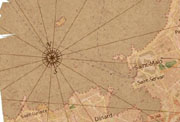
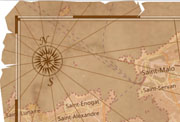
[UPD] New pirate map

diff --git a/examples/map.pirate.html b/examples/map.pirate.html
@@ -10,7 +10,7 @@
 	<title>OL3-ext: Pirates</title>
 	<meta http-equiv="Content-Type" content="text/html; charset=utf-8" />
 
-	<meta name="description" content="ol.control.PirateMap adds an old map effect on a canvas renderer with a parchment texture and compass." />
+	<meta name="description" content="Add an old map effect on a canvas renderer with a parchment texture and compass." />
 	<meta name="keywords" content="ol3, control, canvas, pirate, compass, effect" />
 
 	<link rel="stylesheet" href="style.css" />
@@ -22,9 +22,19 @@
     <link rel="stylesheet" href="http://openlayers.org/en/master/css/ol.css" />
 	<script type="text/javascript" src="http://openlayers.org/en/master/build/ol.js"></script>
 	
-	<!-- -->
-	<link rel="stylesheet" href="../control/piratecontrol.css" />
-	<script type="text/javascript" src="../control/piratecontrol.js"></script>
+	<!-- Compass -->
+	<script type="text/javascript" src="../control/compasscontrol.js"></script>
+	<!-- Filters -->
+	<script type="text/javascript" src="../filter/filter.js"></script>
+	<!-- Texture -->
+	<script type="text/javascript" src="../filter/texturefilter.js"></script>
+	<!-- Colors -->
+	<script type="text/javascript" src="../filter/colorizefilter.js"></script>
+	<!-- Clip -->
+	<script type="text/javascript" src="../filter/clipfilter.js"></script>
+	<!-- Graticule -->
+	<script type="text/javascript" src="../control/graticulecontrol.js"></script>
+
 
 	<style>
 		#map
@@ -41,12 +51,32 @@
 			top:6em;
 			right:1em;
 			margin:0;
-			max-width:15%;
-			min-width:200px;
+			width:200px;
+			z-index:10;
 		}
 		.options input[type="number"]
 		{	width: 5em;
 		}
+
+		.ol-compassctrl 
+		{	top: 50%;
+			left: 5%;
+			width: 100px;
+			height: 100px;
+			-webkit-transform: translate(0,-50%);
+			transform: translate(0,-50%);
+		}
+		.ol-compassctrl.right
+		{	top: auto;
+			left: auto;
+			bottom: 5%;
+			right: 5%;
+			width: 150px;
+			height: 150px;
+			-webkit-transform: none;
+			transform: none;
+		}
+
 	</style>
 
 </head>
@@ -61,13 +91,16 @@
 	<div id="map" ></div>
 
 	<div class="options">
-		The <i>ol.control.PirateMap</i> adds an old map effect on a canvas renderer.
-		It colors the map, adds a parchment texture and compass onto the map.
+		This example show how to combine a <a href="map.filter.colorize.html">color filter</a>, 
+		with a <a href="map.filter.texture.html">parchment texture filter</a>,
+		a <a href="map.control.compass.html">compass control</a>
+		and a <a href="map.control.graticule.html">graticule control</a>
+		to create an old map effect. 
 		<h2>Options</h2>
 		<ul>
 			<li>
 				Hue:
-				<select onchange="ctrl.hue= this.value; map.renderSync()">
+				<select onchange="color.setColor(this.value);">
 					<option value="#963">default</option>
 					<option value="#369">blue</option>
 					<option value="#936">red</option>
@@ -76,18 +109,28 @@
 			</li>
 			<li>
 				Saturation:
-				<input type="number" value="0.6" onchange="ctrl.saturation= Number(this.value); map.renderSync()" max="1" min="0" step="0.1" />
+				<input id="sat" type="number" value="0.6" onchange="color.setValue(this.value)" max="1" min="0" step="0.1" />
 			</li>
 			<li>
 				Opacity:
-				<input type="number" value="0.7" onchange="ctrl.opacity= Number(this.value); map.renderSync()" max="1" min="0" step="0.1" />
+				<input id="opacity" type="number" value="0.7" onchange="tex.setFilter({opacity:Number(this.value)})" max="1" min="0" step="0.1" />
+			</li>
+			<li>
+				<input id="rot" type="checkbox" onchange="tex.set('rotateWithView',$(this).prop('checked'));" /><label for="rot"> rotateWithView</label>
+				<small><i>May cause animation lags on mobile or slow devices</i></small>
 			</li>
 		</ul>
 	</div>
 
 
 	<script type="text/javascript">
+		if (/MSIE|Trident/.test(navigator.userAgent))
+		{	alert ("Oops, it seems you use IE!\nsome feature may not work correctly, try to use another navigator!")
+			$('#sat').val(0.2);
+			$('#opacity').val(0.3);
+		}
 
+		var osm = new ol.layer.Tile({ source: new ol.source.OSM()});
 		// The map
 		var map = new ol.Map
 			({	target: 'map',
@@ -95,16 +138,82 @@
 				({	zoom: 14,
 					center: [-302537, 6001071]
 				}),
-				layers: [new ol.layer.Tile(
-					{	name: "OSM",
-						source: new ol.source.OSM(),
-						visible: true
-					})]
+				layers: [osm]
 			});
 		map.getView().fit ([-375917, 5976764, -229158, 6025378], map.getSize());
 
-		var ctrl = new ol.control.PirateMap();
-		map.addControl(ctrl);
+		// Color filter
+		var color = new ol.filter.Colorize(
+			{	operation: 'color',
+				color: "rgba(153,102,51,"+$("#sat").val()+")",
+					/*
+				red: 153,
+				green: 102,
+				blue: 51,
+				*/
+				value: Number($("#sat").val())
+			});
+		map.addFilter(color); 
+
+		// Texture filter
+		var tex = new ol.filter.Texture(
+			{	src: "data/piratecontrol.jpg", 
+				opacity: Number($("#opacity").val()),
+				rotateWithView: $("#rot").prop('checked'),
+				scale: 3
+			});
+		map.addFilter(tex); 
+
+		// Compass
+		map.addControl(new ol.control.Compass(
+			{	src: "../control/piratecontrol.png",
+				style: new ol.style.Stroke ({ color: "#963", width: 1 }) 
+			}));
+		map.addControl(new ol.control.Compass(
+			{	className: 'right',
+				src: "../control/piratecontrol.png",
+				style: new ol.style.Stroke ({ color: "#963", width: 1 })
+			}));
+		
+		// Graticule
+		map.addControl(new ol.control.Graticule(
+			{	step: 0.2, 
+				stepCoord: 2, 
+				projection: 'EPSG:4326', 
+				//step: 1000, stepCoord: 5, projection: 'EPSG:2154',
+				margin:35, 
+				stroke: true,
+				style:	new ol.style.Style(
+					{	stroke: new ol.style.Stroke({ color:"rgba(102, 51, 0, 0.8)", width:1 }),
+						fill: new ol.style.Fill({ color: "rgba(255,255,255,0.3)" }),
+						text: new ol.style.Text(
+						{	stroke: new ol.style.Stroke({ color: "rgba(255,255,255,0.5)", width: 2 }),
+							fill: new ol.style.Fill({ color: "rgba(102, 51, 0, 1)" }),
+						})
+					}),
+				formatCoord:function(c){ return c.toFixed(1)+"°" 
+			} 
+		}));
+		map.addControl(new ol.control.Graticule(
+			{	step: 5000,
+				projection: 'EPSG:3857',
+				margin: 30,
+				stroke: false,
+				style: new ol.style.Style(
+					{	stroke: new ol.style.Stroke({ color: "rgba(102, 51, 0, 0.8)", width: 1 }),
+						fill: new ol.style.Fill({ color: "rgba(255,255,255,0.3)" }),
+					})
+			}));
+
+		// Clip
+		var clip = new ol.filter.Clip(
+			{	operation:'enhance',
+				coords: [[0.023, 0.957], [0, 0.463], [0.007, 0.42], [0.004, 0.397], [0.029, 0.383], [0.013, 0.383], [0.046, 0.367], [0.011, 0.371], [0.004, 0.349], [0.006, 0.297], [0.012, 0.265], [0.007, 0.246], [0.016, 0.191], [0.031, 0.191], [0.019, 0.171], [0.012, 0.1], [0.046, 0.001], [0.071, 0.012], [0.1, 0], [0.186, 0.01], [0.228, 0.008], [0.239, 0.022], [0.25, 0.009], [0.304, 0.002], [0.311, 0.027], [0.313, 0.007], [0.322, 0.064], [0.311, 0.101], [0.329, 0.055], [0.321, 0.018], [0.334, 0.01], [0.496, 0.009], [0.53, 0.019], [0.553, 0.01], [0.615, 0.014], [0.683, 0.03], [0.697, 0.019], [0.728, 0.027], [0.732, 0.066], [0.735, 0.012], [0.752, 0.006], [0.795, 0.014], [0.85, 0.007], [0.929, 0.013], [1, 0.204], [0.994, 0.324], [0.999, 0.393], [0.988, 0.464], [0.947, 0.46], [0.977, 0.47], [0.978, 0.479], [0.99, 0.489], [0.994, 0.572], [0.992, 0.669], [0.982, 0.673], [0.994, 0.689], [1, 0.716], [0.999, 0.81], [0.987, 0.816], [0.996, 0.83], [0.99, 0.894], [0.944, 1], [0.848, 0.993], [0.841, 0.97], [0.837, 0.993], [0.798, 0.981], [0.697, 0.98], [0.653, 0.986], [0.606, 0.981], [0.598, 0.968], [0.598, 0.941], [0.592, 0.982], [0.558, 0.988], [0.507, 0.983], [0.485, 0.988], [0.418, 0.978], [0.4, 0.969], [0.393, 0.98], [0.338, 0.984], [0.304, 0.977], [0.251, 0.984], [0.238, 0.979], [0.252, 0.915], [0.239, 0.969], [0.233, 0.953], [0.23, 0.984], [0.155, 0.971], [0.147, 0.957], [0.142, 0.974], [0.095, 0.976], [0.066, 0.98], [0.023, 0.957]],
+				units: '%',
+				extent: [0,0,1,1]
+			});
+		map.addFilter(clip);
+		
 	</script>
 
 </body>

diff --git a/index.html b/index.html
@@ -756,10 +756,10 @@
 					<strong>Pirate map.</strong><br>
 				</a>
 				<p class="description">
-					The <i>ol.control.PirateMap </i> adds an old map effect on a canvas renderer.
-					It colors the map, adds a parchment texture and compass onto the map.
+					This example show how to combine a color filter, with a parchment texture filter, 
+					a compass control and a graticule control to create an old map effect. 
 				</p>
-				<p class="tag">control, canvas, pirate, compass, effect</p>
+				<p class="tag">control, canvas, pirate, graticule, compass, effect</p>
 			</div>
 
 			<div class="example">
